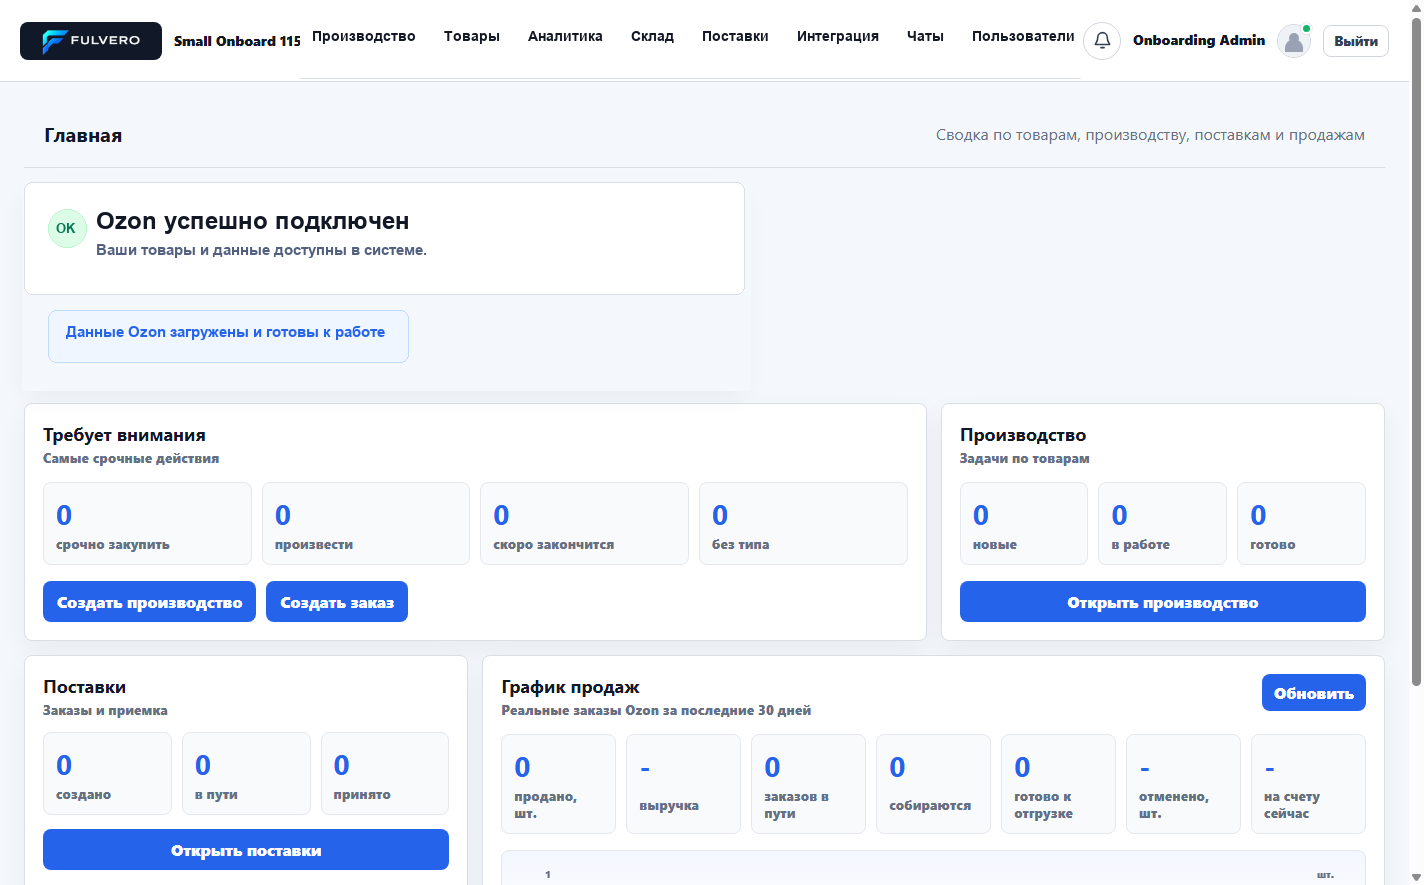
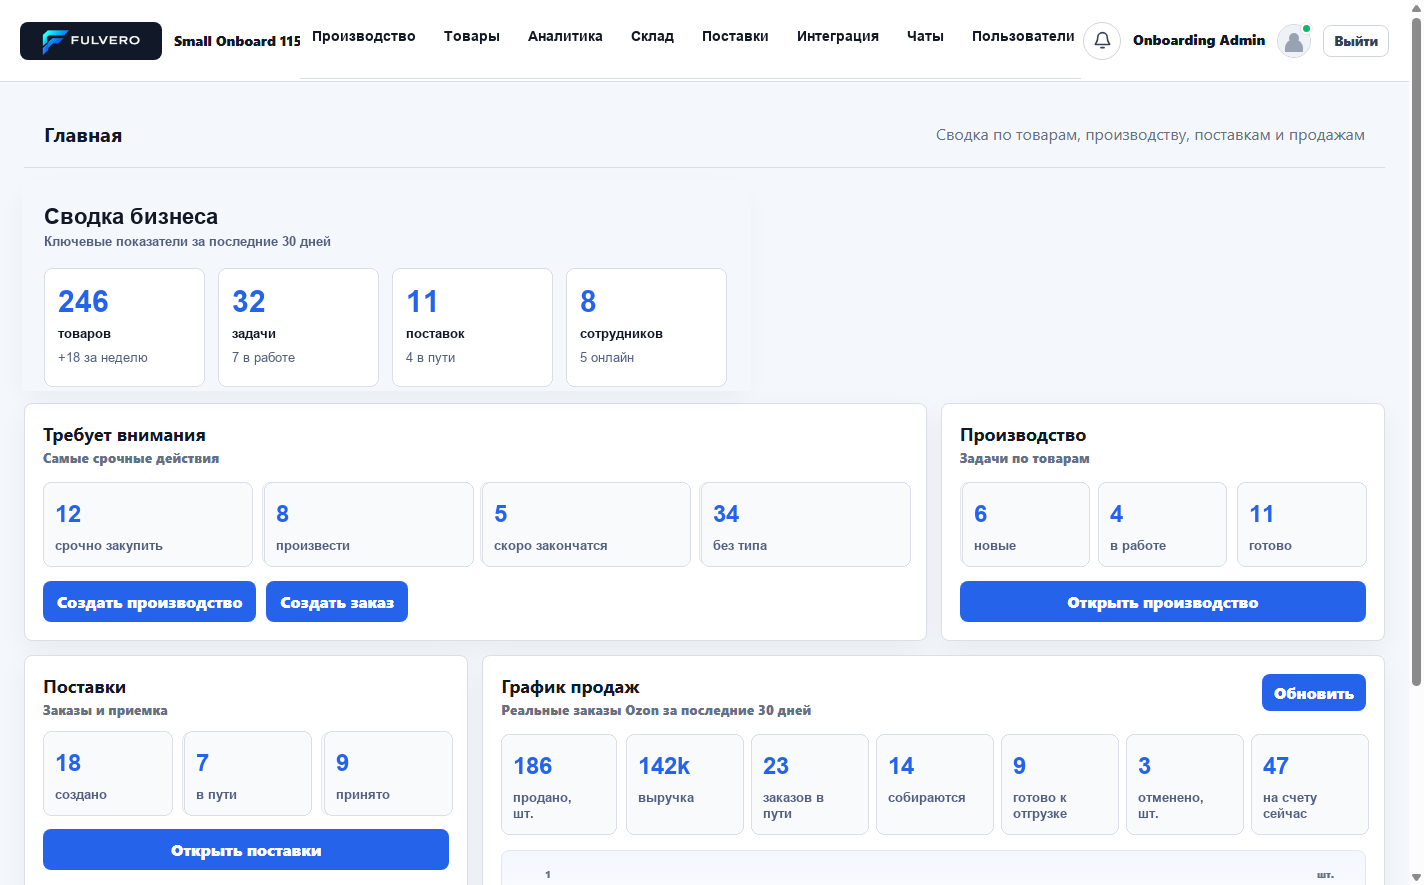
Refresh landing dashboard screenshot

diff --git a/landing/index.html b/landing/index.html
@@ -71,7 +71,7 @@
               <span></span><span></span><span></span>
               <b>Реальный dashboard Fulvero</b>
             </div>
-            <img class="dashboard-screenshot" src="./assets/dashboard-real.png" alt="Реальный dashboard Fulvero с задачами, производством, поставками и продажами" />
+            <img class="dashboard-screenshot" src="./assets/dashboard-real.png?v=20260612-dashboard-data" alt="Реальный dashboard Fulvero с задачами, производством, поставками и продажами" />
           </div>
         </div>
       </section>
